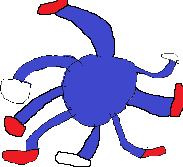
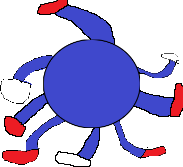
squidnic... ajout

Changed region(s): [[0.2186, 0.3593, 0.7377, 0.7784], [0.2732, 0.2096, 0.7377, 0.3892], [0.7104, 0.3892, 0.765, 0.6287]]

diff --git a/Game/Ressources/Squidnic.cs b/Game/Ressources/Squidnic.cs
@@ -1,0 +1,105 @@
+using SFML.Audio;
+using SFML.Graphics;
+using SFML.System;
+using SFML.Window;
+using System;
+using System.Collections.Generic;
+using System.Linq;
+using System.Text;
+
+namespace Game
+{
+    public class Squidnic : Drawable
+    {
+        private enum State
+        {
+            Standing,
+            Running,
+            Jumping,
+            Ducking,
+            Spinning,
+        }
+
+        private readonly RenderWindow window;
+        private readonly Spiirtes imajes = new Spiirtes();
+        private Sprite currentSpriteBody;
+        private Sprite currentSpriteFace;
+
+        public Vector2f Size
+        {
+            get
+            {
+                return new Vector2f(currentSpriteBody.Origin.X, currentSpriteBody.Origin.Y);
+            }
+        }
+
+        private int orientation = 1; // 1: orienté à droite, -1: orienté à gauche
+        private float Rotation = 0;
+        private State state = State.Standing;
+
+        public Vector2f Position = new Vector2f(200, 200);
+        private Vector2f Scale = new Vector2f(1, 1);
+        private Vector2f squid_sped = new Vector2f(0, 0);
+        private readonly Vector2f ACCELERATION_X = new Vector2f(2, 0);
+        private readonly Vector2f GRAVITY = new Vector2f(0, 1);
+
+        public Squidnic(RenderWindow rw)
+        {
+            window = rw;
+            currentSpriteBody = imajes.squidBody;
+            currentSpriteBody.Origin = new Vector2f(imajes.squidBody.GetLocalBounds().Width / 2, imajes.squidBody.GetLocalBounds().Height / 2);
+
+            currentSpriteFace = imajes.squidFace;
+            currentSpriteFace.Origin = new Vector2f((imajes.squidFace.GetLocalBounds().Width / 2), imajes.squidFace.GetLocalBounds().Height / 2);
+        }
+
+        public void Draw(RenderTarget target, RenderStates states)
+        {
+            currentSpriteBody.Draw(target, states);
+            currentSpriteFace.Draw(target, states);
+        }
+
+        private void UpdateSprite()
+        {
+            Scale.X = orientation;			//Flip sprite
+            currentSpriteBody.Position = Position;
+            currentSpriteBody.Rotation = Rotation;
+            currentSpriteBody.Scale = Scale;
+
+            currentSpriteFace.Position = Position;
+            currentSpriteFace.Rotation = Rotation;
+            currentSpriteFace.Scale = Scale;
+        }
+
+        private void fall()
+        {
+            squid_sped += GRAVITY;
+        }
+
+        private bool isGrounded()
+        {
+            return Position.Y + currentSpriteBody.Origin.Y >= window.Size.Y;
+        }
+
+        private void collision()
+        {
+            if (!isGrounded())
+            {
+                fall();
+            }
+            else
+            {
+                Position.Y = window.Size.Y - Size.Y;
+                squid_sped.Y = squid_sped.Y < 0 ? squid_sped.Y : 0;
+            }
+        }
+
+        public void update()
+        {
+
+            collision();
+            Position += squid_sped;
+            UpdateSprite();
+        }
+    }
+}

diff --git a/Game/Spiirtes.cs b/Game/Spiirtes.cs
@@ -3,7 +3,6 @@ using System;
 using System.Collections.Generic;
 using System.Linq;
 using System.Text;
-using System.Threading.Tasks;
 
 namespace Game
 {
@@ -12,6 +11,8 @@ namespace Game
         public readonly Sprite sanic;
         public readonly Sprite sanicBall;
         public readonly Sprite sanicDuck;
+        public readonly Sprite squidBody;
+        public readonly Sprite squidFace;
 
 
         public Spiirtes()
@@ -19,6 +20,8 @@ namespace Game
             sanic = new Sprite(new Texture(@"..\..\Ressources\sanic.png"));
             sanicBall = new Sprite(new Texture(@"..\..\Ressources\sanic_ball.png"));
             sanicDuck = new Sprite(new Texture(@"..\..\Ressources\sanicDuck.png"));
+            squidBody = new Sprite(new Texture(@"..\..\Ressources\squidnic_Bahdy.png"));
+            squidFace = new Sprite(new Texture(@"..\..\Ressources\squidnic_Fasse.png"));
         }
     }
 }

diff --git a/Game/Program.cs b/Game/Program.cs
@@ -8,7 +8,6 @@ using System;
 using System.Collections.Generic;
 using System.Linq;
 using System.Text;
-using System.Threading.Tasks;
 
 namespace Game
 {
@@ -49,6 +48,7 @@ namespace Game
                         s.Update();
                         window.Draw(s);
                     }
+
                     window.Display();
                     window.DispatchEvents();
                 }

diff --git a/Game/Sanic.cs b/Game/Sanic.cs
@@ -6,7 +6,6 @@ using System;
 using System.Collections.Generic;
 using System.Linq;
 using System.Text;
-using System.Threading.Tasks;
 
 namespace Game
 {

diff --git a/Game/Sosn.cs b/Game/Sosn.cs
@@ -3,7 +3,6 @@ using System.Collections.Generic;
 using System;
 using System.Linq;
 using System.Text;
-using System.Threading.Tasks;
 
 namespace Game
 {
